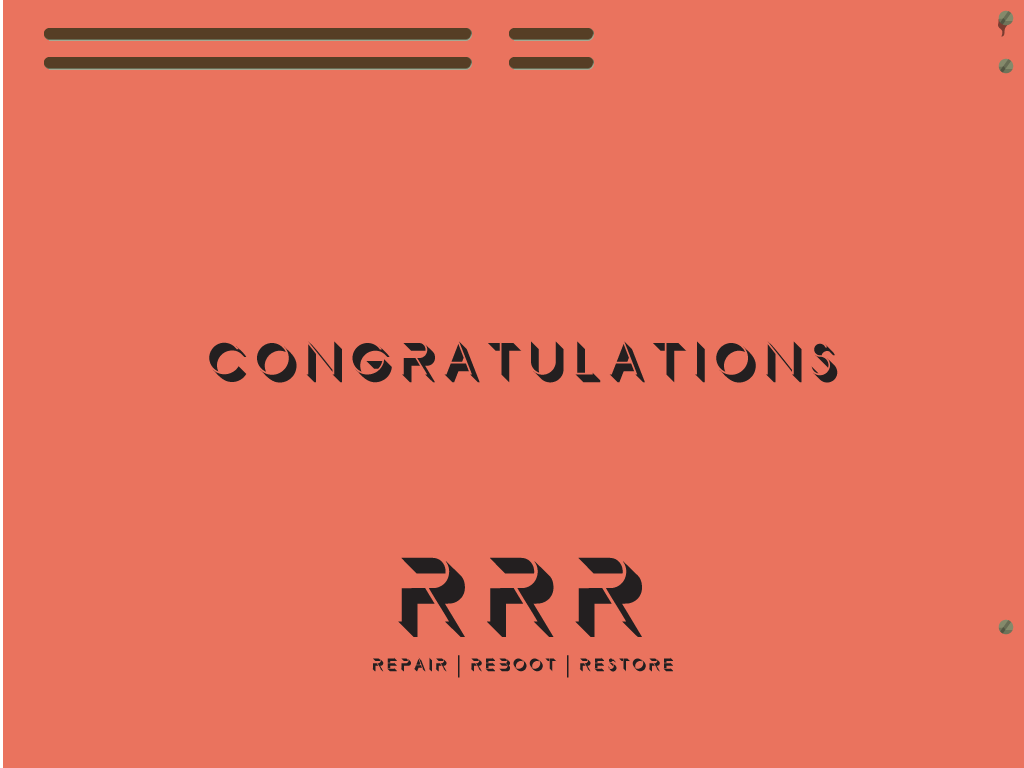
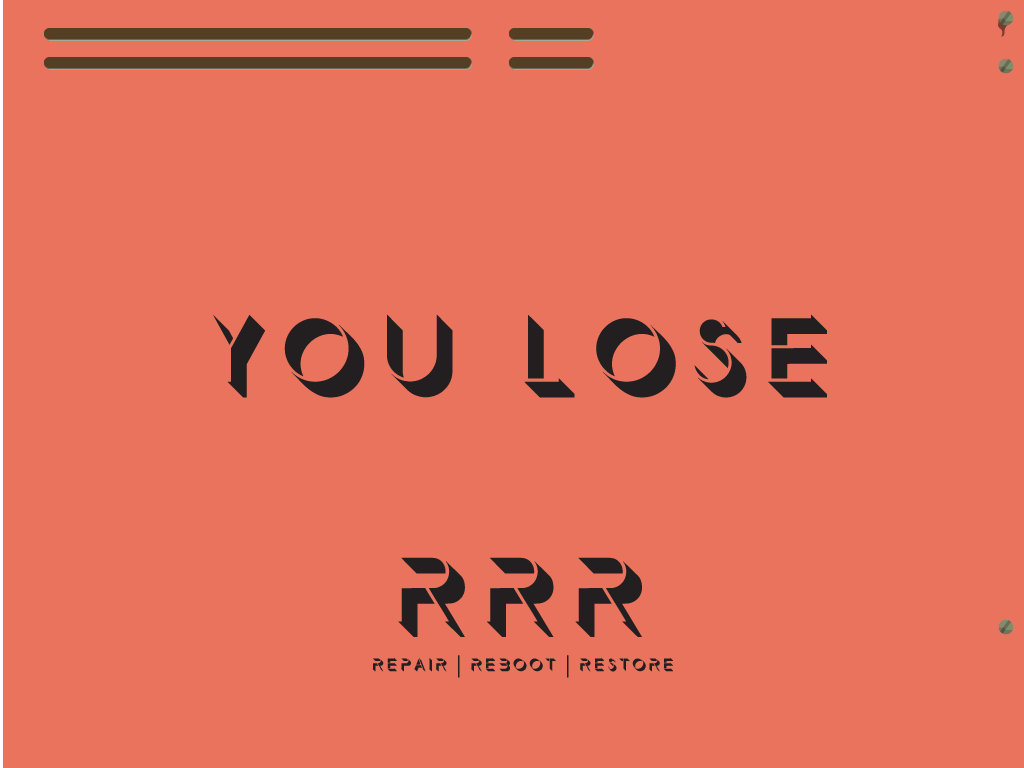
added level increase and win condition

Changed region(s): [[0.1875, 0.4062, 0.8125, 0.5312]]

diff --git a/js/game.js b/js/game.js
@@ -6,7 +6,7 @@ var game = new Phaser.Game(
     true
 );
 
-var currentLevel = 0;
+var currentLevel = -1;
 var objects = [];
 
 var debugText = '';
@@ -53,6 +53,8 @@ function preload() {
     game.load.image('back_simple', 'assets/back_simple.png');
     game.load.image('rrr_splash', 'assets/RRR.png');
     game.load.image('enter_game', 'assets/enter_game.png');
+    game.load.image('enter_game', 'assets/RRR_VICTORIA.png');
+    game.load.image('enter_game', 'assets/RRR_DERROTA.png');
 
     game.load.spritesheet('platform', 'assets/cinta.png', 201, 61, 2);
     game.load.spritesheet('speaker-anim', 'assets/speaker.png', 154, 158, 2);
@@ -79,7 +81,6 @@ function create() {
     createEdges();
 
     count = game.add.text(670, 543, countInt, { fontSize: '15px', fill: '#000' });
-    createObjects();
     createMachines();
     const machineObjects = createSwitches();
     for (let i = 0; i < machineObjects.length; i += 1) {
@@ -98,12 +99,11 @@ function create() {
     speaker = game.add.sprite(790, 410, 'speaker-anim', 5);
     speaker.animations.add('play-sound');
     speaker.play(10, true); // TODO: fix
-
-    updateGoalObject();
+    navigateToNextLevel();
 }
 
 function updateGoalObject() {
-    if (goalObject && goalObject.level === currentLevel) return;
+    if (!gameStarted || (goalObject && goalObject.level === currentLevel)) return;
     if (goalObject) goalObject.graphics.destroy();
     const matrix = levels[currentLevel].salida
     goalObject = { level: currentLevel, matrix };
@@ -123,15 +123,14 @@ function updateGoalObject() {
 
 function update() {
     if (!gameStarted) {
-        // startGame(undefined);
+        startGame(undefined);
     } else {
         updateMachines();
         for (const object of objects) {
             checkCollision(object);
             updateObject(object);
-            checkSolution(object);
         }
-    
+
         platformX += platformStep;
         // console.log(platformX);
         if (platformX >= 278) {
@@ -147,7 +146,6 @@ function update() {
                 platform.x += platformStep;
         }
     }
-    updateGoalObject();
 }
 
 function render() {
@@ -158,23 +156,16 @@ function render() {
     }
 }
 
-function checkSolution(object) {
-    if (!goalObject || !goalObject.matrix) return;
-    let solved = true;
-    let i = 0;
-    let j = 0;
-
-    while (i < 3 && solved) {
-        while (j < 3 && solved) {
-            solved = object.matrix[i][j].active === goalObject.matrix[i][j].active && object.matrix[i][j].color === goalObject.matrix[i][j].color;
-            j++;
-        }
-        i++;
+function navigateToNextLevel() {
+    currentLevel += 1;
+    if (currentLevel === end) {
+        showSuccess();
     }
+    updateGoalObject();
+    createObjects();
+    countInt = 35;
+}
 
-    // TODO: esto tiene que cambiar algo en el juego... Sumar un contador o whatever.
-    if (solved)
-        console.info('Llegaste a la solucion');
-    else
-        console.info('No sabes nada');
+function showSuccess() {
+    game.add.sprite(0, 0, 'RRR_VICTORIA', 5);
 }

diff --git a/js/object.js b/js/object.js
@@ -8,7 +8,7 @@ const posStep = 2;
 const objSize = 30;
 const objectCount = 3;
 
-const objX = -300;
+const objX = -450;
 const objectDistance = -550;
 const objY = 337;
 
@@ -16,6 +16,7 @@ const objY = 337;
  * Create object reference
  */
 function createObjects() {
+    if (objects && objects.length > 0) objects.forEach(o => o.graphics.destroy());
     for (let i = 0; i < objectCount; i += 1) {
         const object = { x: objX + objectDistance * i, matrix: copy(levels[currentLevel].entrada), size: objSize };
         objects.push(object);
@@ -59,7 +60,26 @@ function updateObject(object) {
 }
 
 function resetObject(object) {
+    if (checkSolution(object)) {
+        navigateToNextLevel();
+    };
     object.graphics.clear();
-    object.x = -350;
+    object.x = -370;
     object.matrix = copy(levels[currentLevel].entrada);
+}
+
+function checkSolution(object) {
+    if (!goalObject || !goalObject.matrix) return;
+    let solved = true;
+    let i = 0;
+    let j = 0;
+
+    while (i < 3 && solved) {
+        while (j < 3 && solved) {
+            solved = object.matrix[i][j].active === goalObject.matrix[i][j].active && object.matrix[i][j].color === goalObject.matrix[i][j].color;
+            j++;
+        }
+        i++;
+    }
+    return solved;
 }

diff --git a/game.html b/game.html
@@ -3,7 +3,8 @@
 
 <head>
     <meta charset="UTF-8" />
-    <title>Game test</title>
+    <title>·R·R·R·</title>
+    <link rel="icon" type="image/png" sizes="32x32" href="assets/favicon-32x32.png">
     <script src="//cdnjs.cloudflare.com/ajax/libs/phaser/2.6.2/phaser.js"></script>
     <!-- <script src="js/phaser.js" type="text/javascript"></script> -->
     <script src="js/types.js" type="text/javascript"></script>
